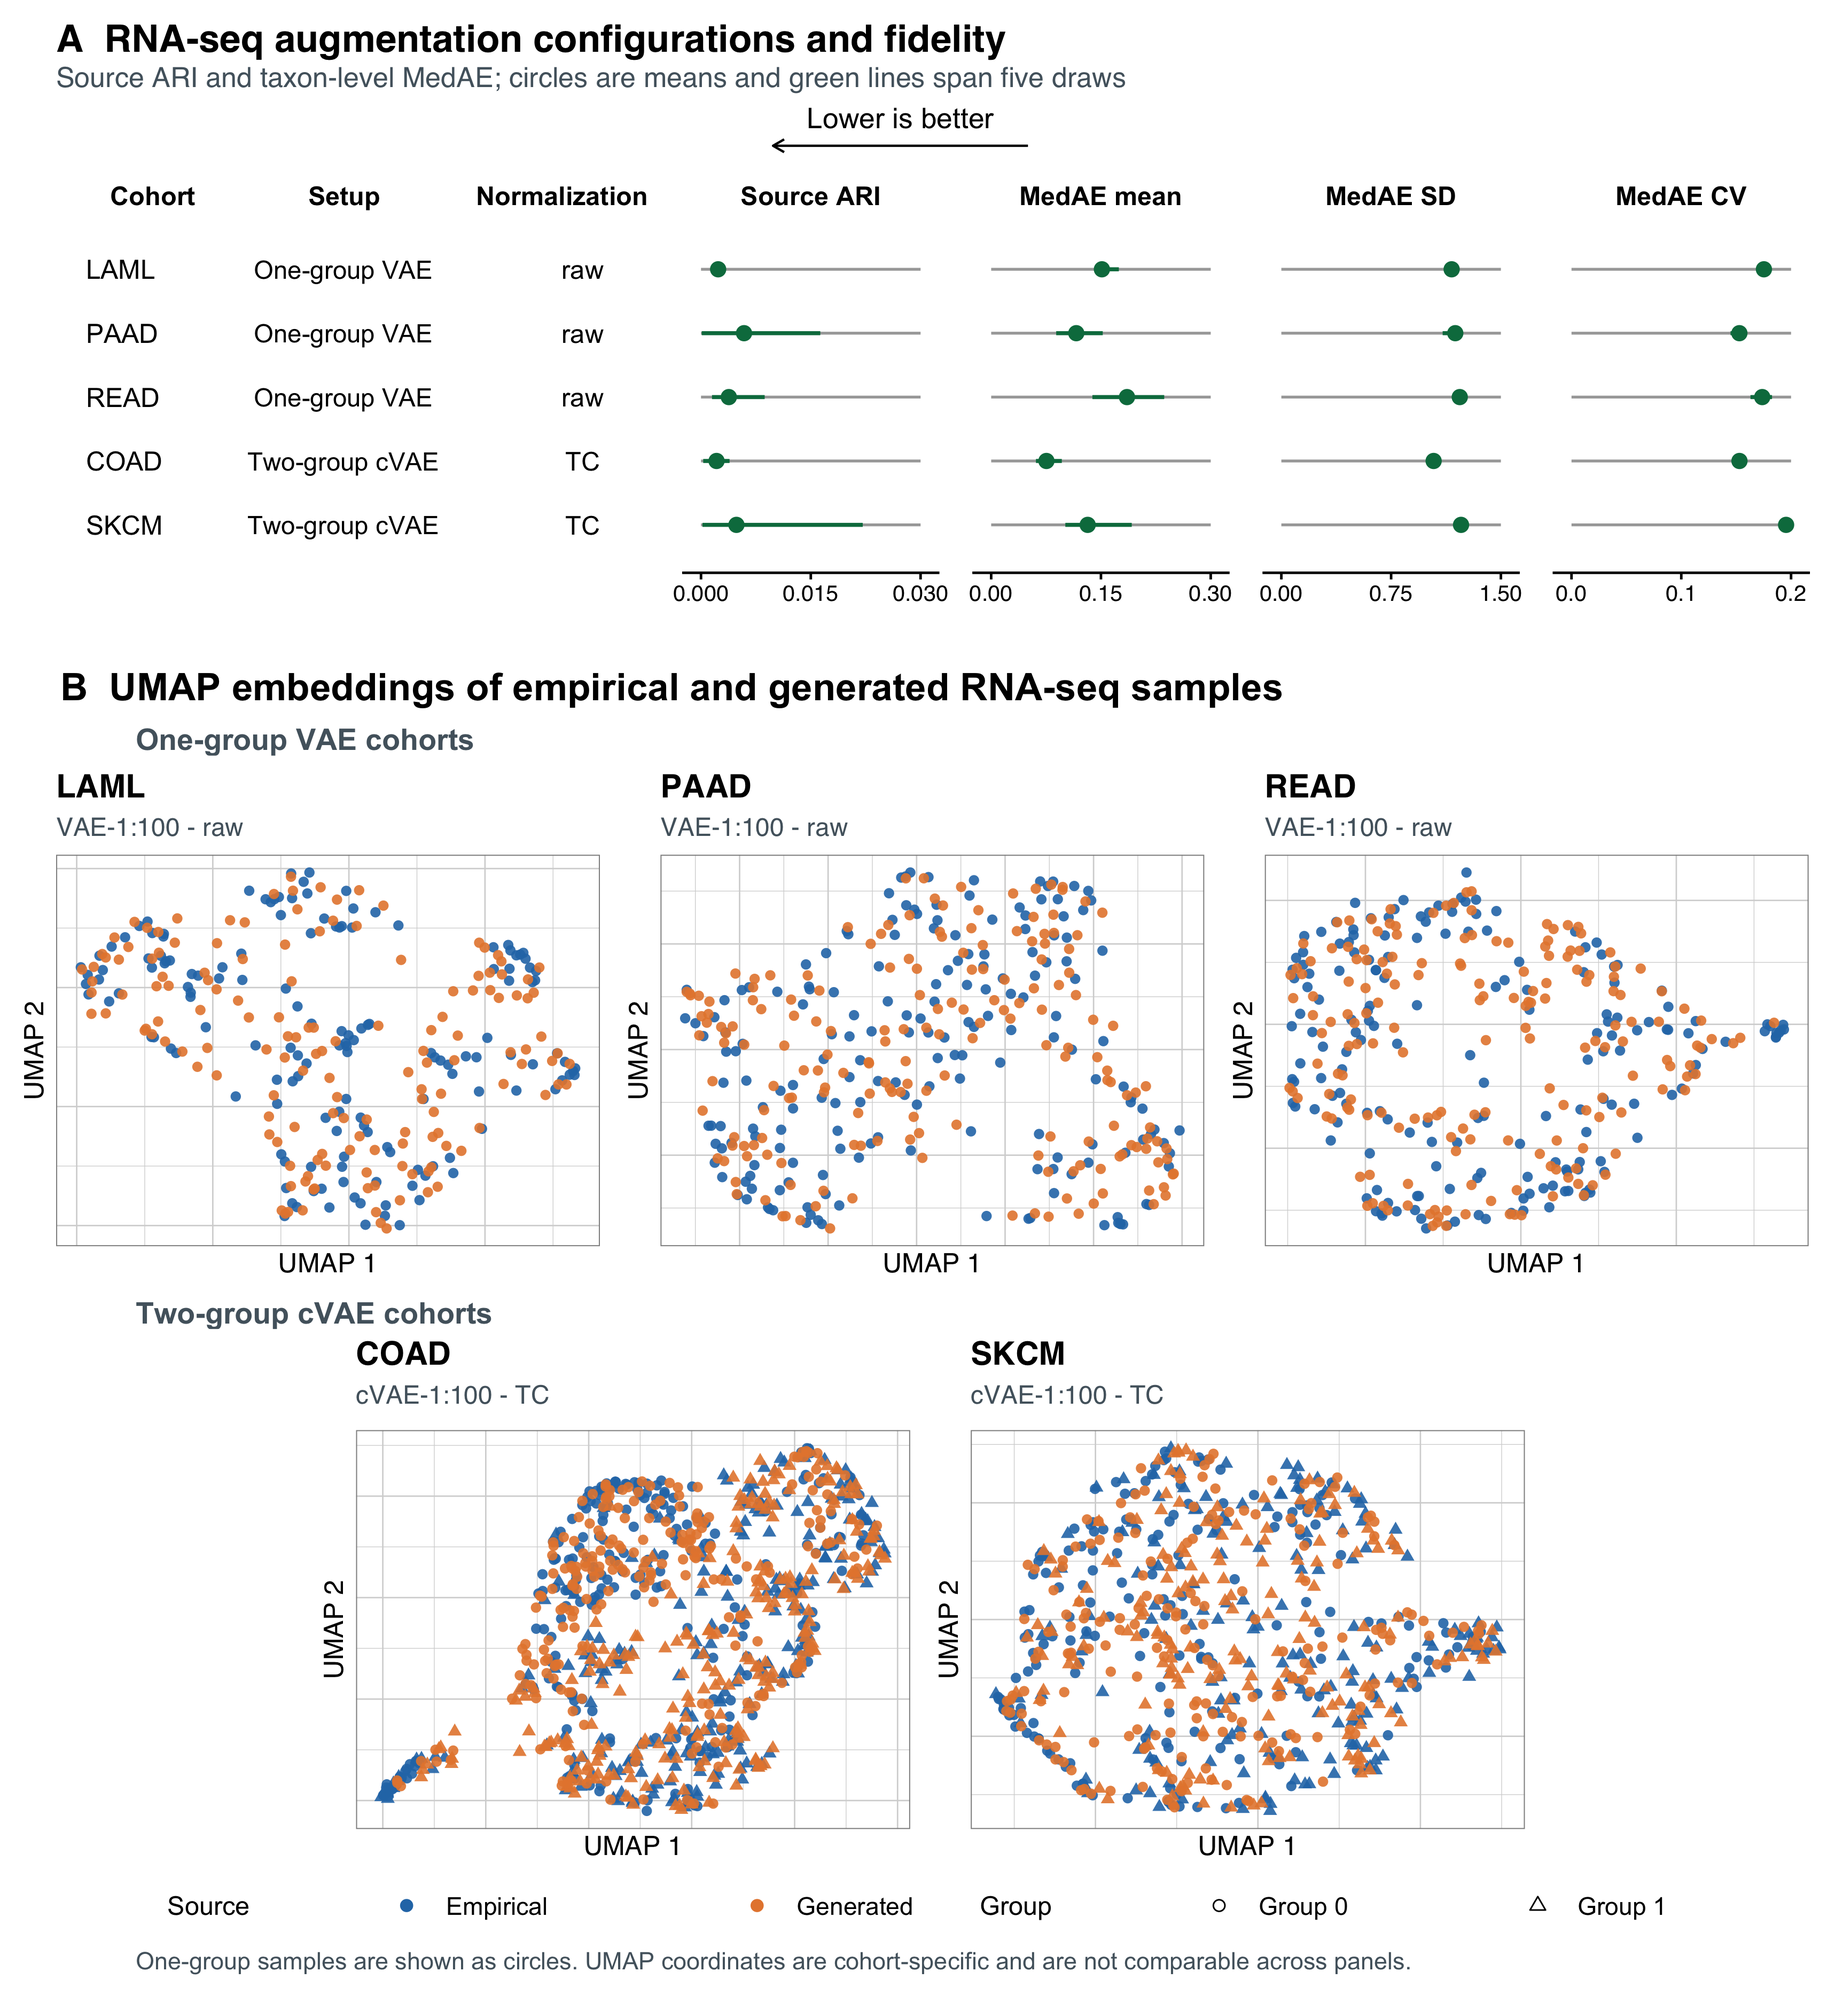
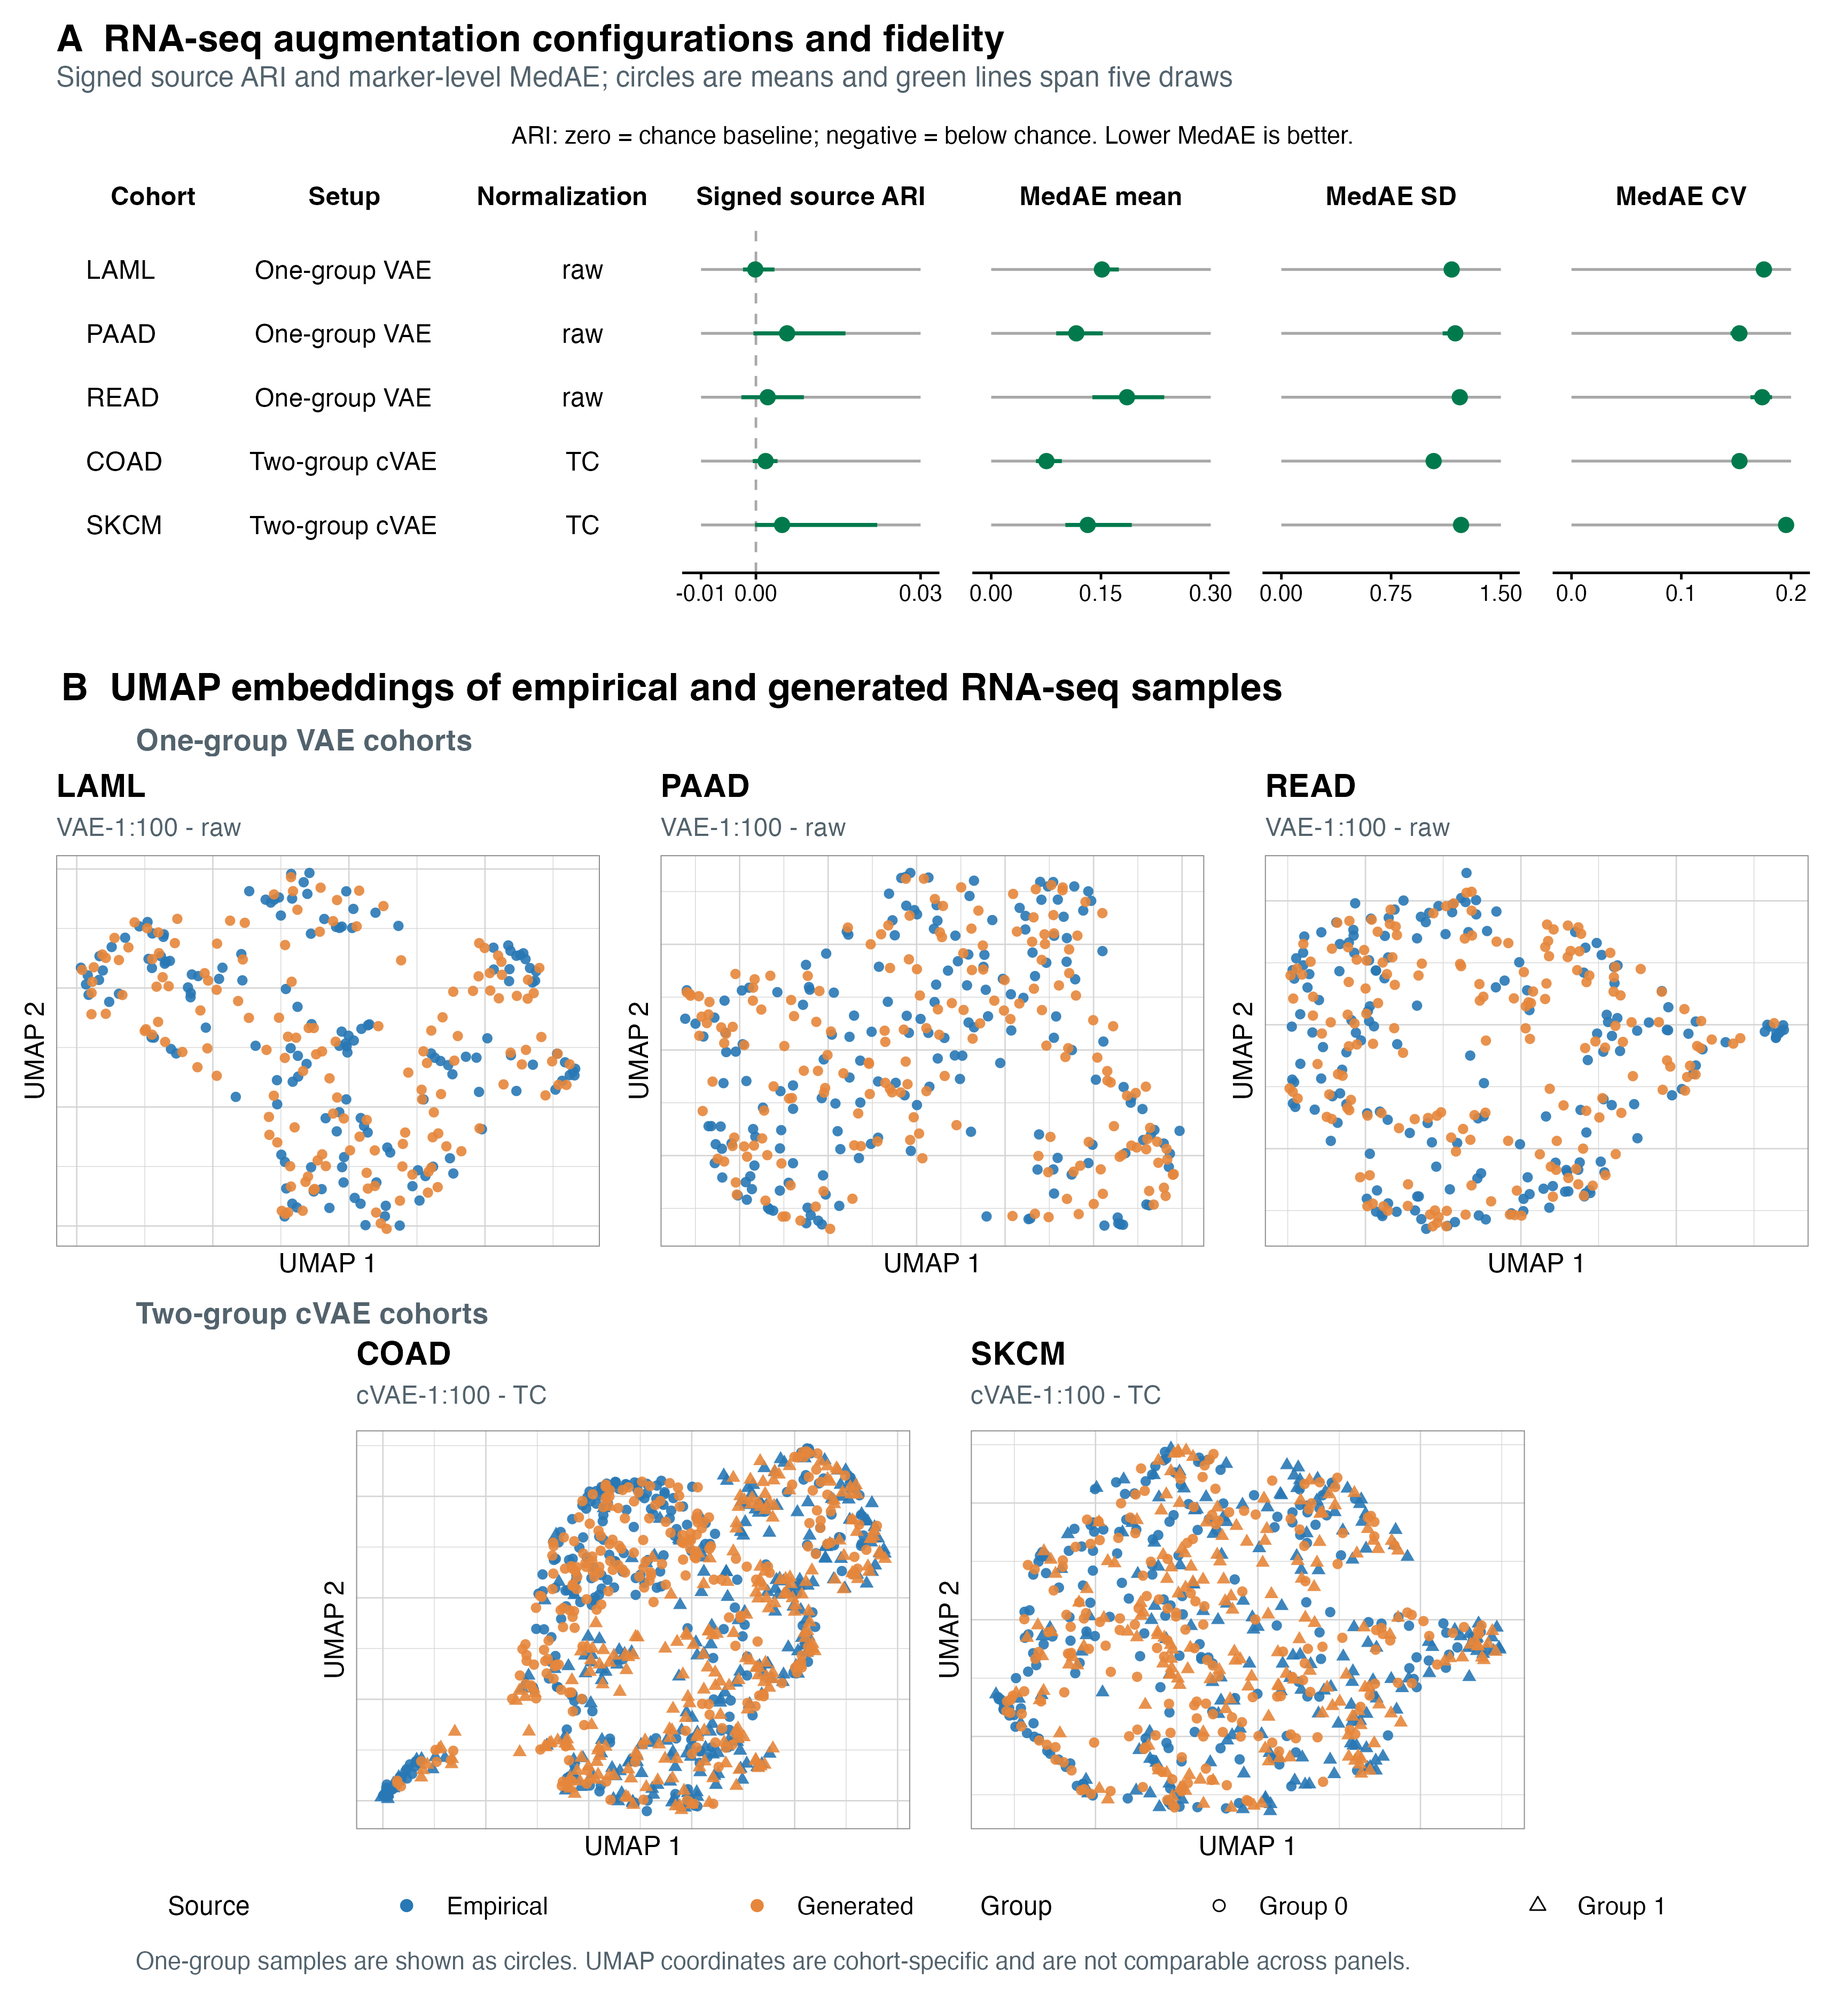
Corrected signed source ARI calculation and refresh dependent figures

diff --git a/workflow/05_fidelity/run.py b/workflow/05_fidelity/run.py
@@ -1,10 +1,10 @@
 # Stage 05: fidelity metrics and UMAP coordinates for every generated table.
 #
-# Python computes cARI, CCC of feature means, MAD, MedAE, and UMAP coordinates.
+# Python computes signed source ARI, CCC of feature means, MAD, MedAE, and UMAP.
 # DANA cccpcc and voom+limma CCC of -log10(p) and log2 FC run in dana_dea.R
 # (same maths as helper_source/Xinyi_version/evaluate_synthetic.R) for binary
 # grouped jobs only. grouping=none RNA skips DANA/DEA (no two-class contrast)
-# but still computes cARI, MAD, MedAE, and UMAP. miRNA coordinates are
+# but still computes source ARI, MAD, MedAE, and UMAP. miRNA coordinates are
 # config/mirna_coordinates.csv; dots in `name` are turned into hyphens
 # to match TCGA feature names. RNA-seq has no gene-coordinate table yet, so
 # cccpcc is NA for those jobs; the other metrics still run.
@@ -37,7 +37,7 @@ import pandas as pd
 
 from metrics import (
     clip_nonfinite,
-    cluster_cari,
+    source_ari,
     load_table,
     mad_metrics,
     sample_to_n,
@@ -69,7 +69,7 @@ FIDELITY_FIELDS = [
     "n_real",
     "n_generated",
     "n_features",
-    "cARI",
+    "source_ari",
     "cccpcc",
     "ccc_log10_pvalue",
     "ccc_log2_FC",
@@ -81,6 +81,7 @@ FIDELITY_FIELDS = [
     "medae_sd",
     "medae_cv",
     "seed",
+    "draw_seed",
 ]
 
 
@@ -138,27 +139,12 @@ def planned_jobs(datasets, models_by_key, norms, off_aug_by_key):
     return jobs
 
 
-def write_csv(path: Path, df: pd.DataFrame) -> None:
-    path.parent.mkdir(parents=True, exist_ok=True)
-    tmp = path.with_suffix(path.suffix + ".tmp")
-    df.to_csv(tmp, index=False)
-    tmp.replace(path)
-
-
 def ensure_csv_fields(path: Path, fields: list[str]) -> None:
-    """Add any missing columns so later appends keep a stable header."""
+    """Require the expected result columns before appending."""
     if not path.exists():
         return
-    df = pd.read_csv(path)
-    if df.empty and list(df.columns) == fields:
-        return
-    for col in fields:
-        if col not in df.columns:
-            df[col] = pd.NA
-    extras = [c for c in df.columns if c not in fields]
-    ordered = [c for c in fields if c in df.columns] + extras
-    if list(df.columns) != ordered:
-        write_csv(path, df[ordered])
+    if list(pd.read_csv(path, nrows=0).columns) != fields:
+        raise ValueError(f"Incompatible fidelity schema in {path}; recompute signed source ARI.")
 
 
 def append_rows(path: Path, rows: list[dict], fields: list[str]) -> None:
@@ -193,17 +179,30 @@ def run_dana_dea(jobs_csv: Path, out_csv: Path) -> pd.DataFrame:
     return pd.read_csv(out_csv)
 
 
-def already_done(done: set[tuple[str, str, str, str]], ds, norm, model, tag) -> bool:
-    return (ds["dataset_id"], norm["label"], model, tag) in done
+def already_done(done, ds, norm, model, off_aug, ae_head_num) -> bool:
+    return (ds["dataset_id"], ds["modality"], norm["label"], model,
+            off_aug, ae_head_num or 0) in done
 
 
-def load_done_keys(path: Path) -> set[tuple[str, str, str, str]]:
+def load_done_keys(path: Path, n_draws: int, draw_seed_base: int) -> set[tuple]:
     if not path.exists():
         return set()
+    ensure_csv_fields(path, FIDELITY_FIELDS)
     df = pd.read_csv(path)
     if df.empty:
         return set()
-    return set(zip(df["dataset_id"].astype(str), df["norm"].astype(str), df["model"].astype(str), df["off_aug"].astype(str)))
+    df["AE_head_num"] = df["AE_head_num"].fillna(0)
+    keys = ["dataset_id", "modality", "norm", "model", "off_aug", "AE_head_num"]
+    if df[keys].isna().any().any():
+        raise ValueError("Missing fidelity configuration keys.")
+    done = set()
+    for key, rows in df.groupby(keys, dropna=False):
+        if (len(rows) != n_draws or set(rows["draw"]) != set(range(1, n_draws + 1))
+                or not rows["source_ari"].between(-0.5, 1).all()
+                or not (rows["draw_seed"] == draw_seed_base + rows["draw"]).all()):
+            raise ValueError(f"Invalid or incomplete fidelity results for {key}; recompute this configuration.")
+        done.add(key)
+    return done
 
 
 def main() -> None:
@@ -223,13 +222,15 @@ def main() -> None:
     n_draws = int(cfg["n_draws"])
     draw_seed_base = int(cfg["draw_seed_base"])
     skip_existing = as_bool(cfg.get("skip_existing", "true"))
-    ensure_csv_fields(FIDELITY_CSV, FIDELITY_FIELDS)
     coords_mirna = ROOT / cfg["coords_mirna"]
     if not coords_mirna.exists():
         raise SystemExit(f"missing miRNA coordinates: {coords_mirna}")
 
     jobs = planned_jobs(datasets, models_by_key, norms, off_aug_by_key)
-    done = load_done_keys(FIDELITY_CSV) if skip_existing else set()
+    existing = load_done_keys(FIDELITY_CSV, n_draws, draw_seed_base)
+    if existing and not skip_existing:
+        raise ValueError("Remove existing fidelity results before recomputing; appending would duplicate draws.")
+    done = existing
     print(f"SEED             : {SEED}")
     print(f"Jobs             : {len(jobs)}")
     print(f"n_draws          : {n_draws}")
@@ -256,7 +257,7 @@ def main() -> None:
             "seed": SEED,
         }
 
-        if skip_existing and already_done(done, ds, norm, model, off_aug or "none"):
+        if skip_existing and already_done(done, ds, norm, model, off_aug or "none", ae_head_num):
             print("    skipped (exists)", flush=True)
             n_skip += 1
             append_rows(LOG_CSV, [{**log_base, "status": "SKIPPED (exists)"}], list(log_base) + ["status"])
@@ -314,7 +315,7 @@ def main() -> None:
                             gen_feat, gen_groups, real_groups, draw_seed_base + draw
                         )
                     real_a, gen_a, _ = align_matrices(real_feat, samp_feat)
-                    cari = cluster_cari(real_a, gen_a)
+                    ari = source_ari(real_a, gen_a)
                     mads = mad_metrics(real_a, gen_a)
                     if need_dana:
                         gen_csv = tmpdir / f"gen_draw{draw}.csv"
@@ -351,12 +352,13 @@ def main() -> None:
                             "n_real": int(real_a.shape[0]),
                             "n_generated": int(gen_a.shape[0]),
                             "n_features": int(real_a.shape[1]),
-                            "cARI": cari,
+                            "source_ari": ari,
                             "cccpcc": "",
                             "ccc_log10_pvalue": "",
                             "ccc_log2_FC": "",
                             **mads,
                             "seed": SEED,
+                            "draw_seed": draw_seed_base + draw,
                         }
                     )
 

diff --git a/workflow/05_fidelity/metrics.py b/workflow/05_fidelity/metrics.py
@@ -1,4 +1,4 @@
-"""Python-side fidelity helpers: sampling, cARI, CCC, MAD, UMAP coordinates."""
+"""Python-side fidelity helpers: sampling, source ARI, CCC, MAD, UMAP."""
 
 from __future__ import annotations
 
@@ -114,8 +114,12 @@ def sample_to_n(
     return feat, groups
 
 
-def cluster_cari(real: np.ndarray, gen: np.ndarray) -> float:
-    """1 - |ARI(real/generated vs Ward clusters)|, matching Xinyi's cluster_eval."""
+def source_ari(real: np.ndarray, gen: np.ndarray) -> float:
+    """Signed ARI of empirical/generated source labels versus Ward clusters.
+
+    Keep full precision; zero is the chance-adjusted agreement baseline.
+    Preserve the study's existing zero-SD replacement and clustering method.
+    """
     gen = replace_zero_sd(real, gen)
     combined = np.vstack([real, gen])
     datatype = np.array(["Real"] * len(real) + ["Generated"] * len(gen))
@@ -127,7 +131,7 @@ def cluster_cari(real: np.ndarray, gen: np.ndarray) -> float:
             return float("nan")
         z = linkage(dist, method="ward")
         clusters = fcluster(z, t=2, criterion="maxclust")
-        return float(1.0 - abs(round(adjusted_rand_score(datatype, clusters), 4)))
+        return float(adjusted_rand_score(datatype, clusters))
     except ValueError:
         return float("nan")
 

diff --git a/workflow/README.md b/workflow/README.md
@@ -21,7 +21,15 @@ group labels have been dropped, so the sample set has to be fixed first.
 | 07 | Figures and tables | `uv run workflow/07_figures/run.py` | `results/` | `figures/`, `results/tables/` |
 | 08 | Website | `uv run workflow/08_website/run.py` | `results/learning_curve_fits.json` and companion CSVs, `config/` | `website/plots/`, `website/manifest.json` |
 
-**Stage 05 should also write the UMAP coordinates.** cARI, MAD, CCC of means, and UMAP run in Python. DANA `cccpcc` and voom+limma `ccc_log10_pvalue` / `ccc_log2_FC` are computed by `dana_dea.R` (needs `Rscript` on PATH) for binary grouped jobs. `grouping=none` RNA-seq skips DANA/DEA and SyntheSize (stage 06). A job whose `generated.csv` is missing is skipped; rerun after stage 04. RNA-seq `cccpcc` is NA until a gene-coordinate table is added — miRNA uses `config/mirna_coordinates.csv`.
+**Stage 05 also writes the UMAP coordinates.** Signed source ARI, MAD, CCC of means, and UMAP run in Python. DANA `cccpcc` and voom+limma `ccc_log10_pvalue` / `ccc_log2_FC` are computed by `dana_dea.R` (needs `Rscript` on PATH) for binary grouped jobs. `grouping=none` RNA-seq skips DANA/DEA and SyntheSize (stage 06). A job whose `generated.csv` is missing is skipped; rerun after stage 04. RNA-seq `cccpcc` is NA until a gene-coordinate table is added — miRNA uses `config/mirna_coordinates.csv`.
+
+`results/fidelity.csv` stores full-precision signed `source_ari` per draw and the actual
+`draw_seed` (currently 101–105); `seed` remains the shared workflow/UMAP seed, 42.
+Configuration keys are dataset, modality, normalization, model, off_aug and AE_head_num,
+with `draw` identifying each row. Figure means and minimum–maximum ranges are calculated
+from unrounded draws; rounding is only for labels. Zero is the chance-adjusted agreement
+baseline, and negative values indicate below-chance agreement, not automatically better
+mixing. This measure alone does not establish distributional equivalence.
 
 Stage 07 keeps one `figure_*.py` module per figure, each exposing `main()`, registered in the
 `FIGURES` list in `run.py`. `figure_cvae_architecture.py` is a schematic of
